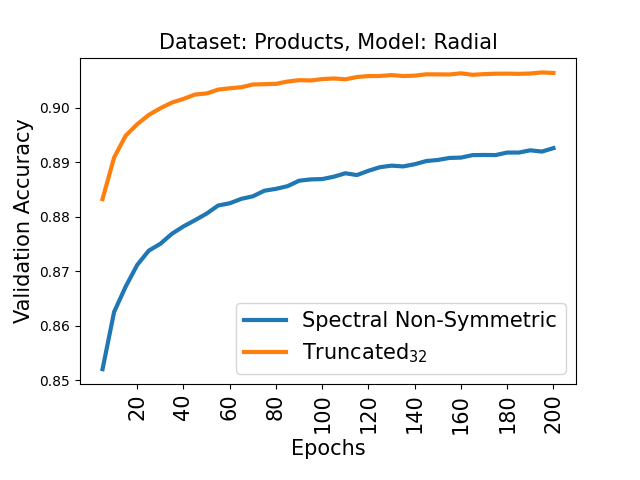
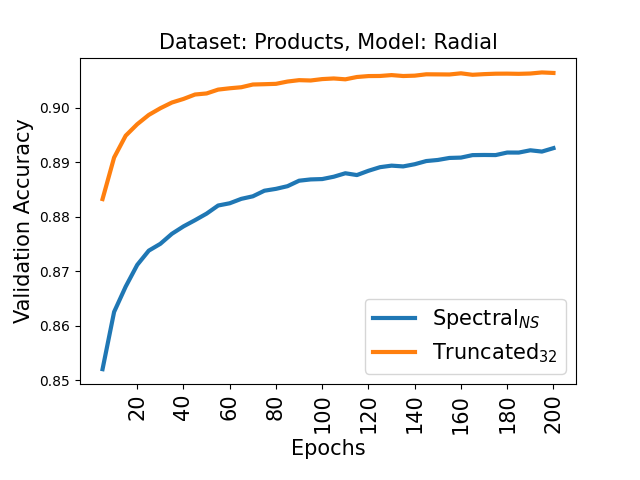
Fixed names of legends in graphs

Changed region(s): [[0.375, 0.625, 0.875, 0.6875], [0.375, 0.7188, 0.875, 0.75]]

diff --git a/create_SimpleGraphs_radial_truncated_spec.py b/create_SimpleGraphs_radial_truncated_spec.py
@@ -12,7 +12,7 @@ different_model_names = ["Radial"]
 
 embedding_list = ["non-symmetric","truncated-spectral"]
 
-different_embed_names = ["Spectral Non-Symmetric", "Truncated$_{32}$"]
+different_embed_names = ["Spectral$_{NS}$", "Truncated$_{32}$"]
 
 combined_name = "radial_truncated_spec"
 
